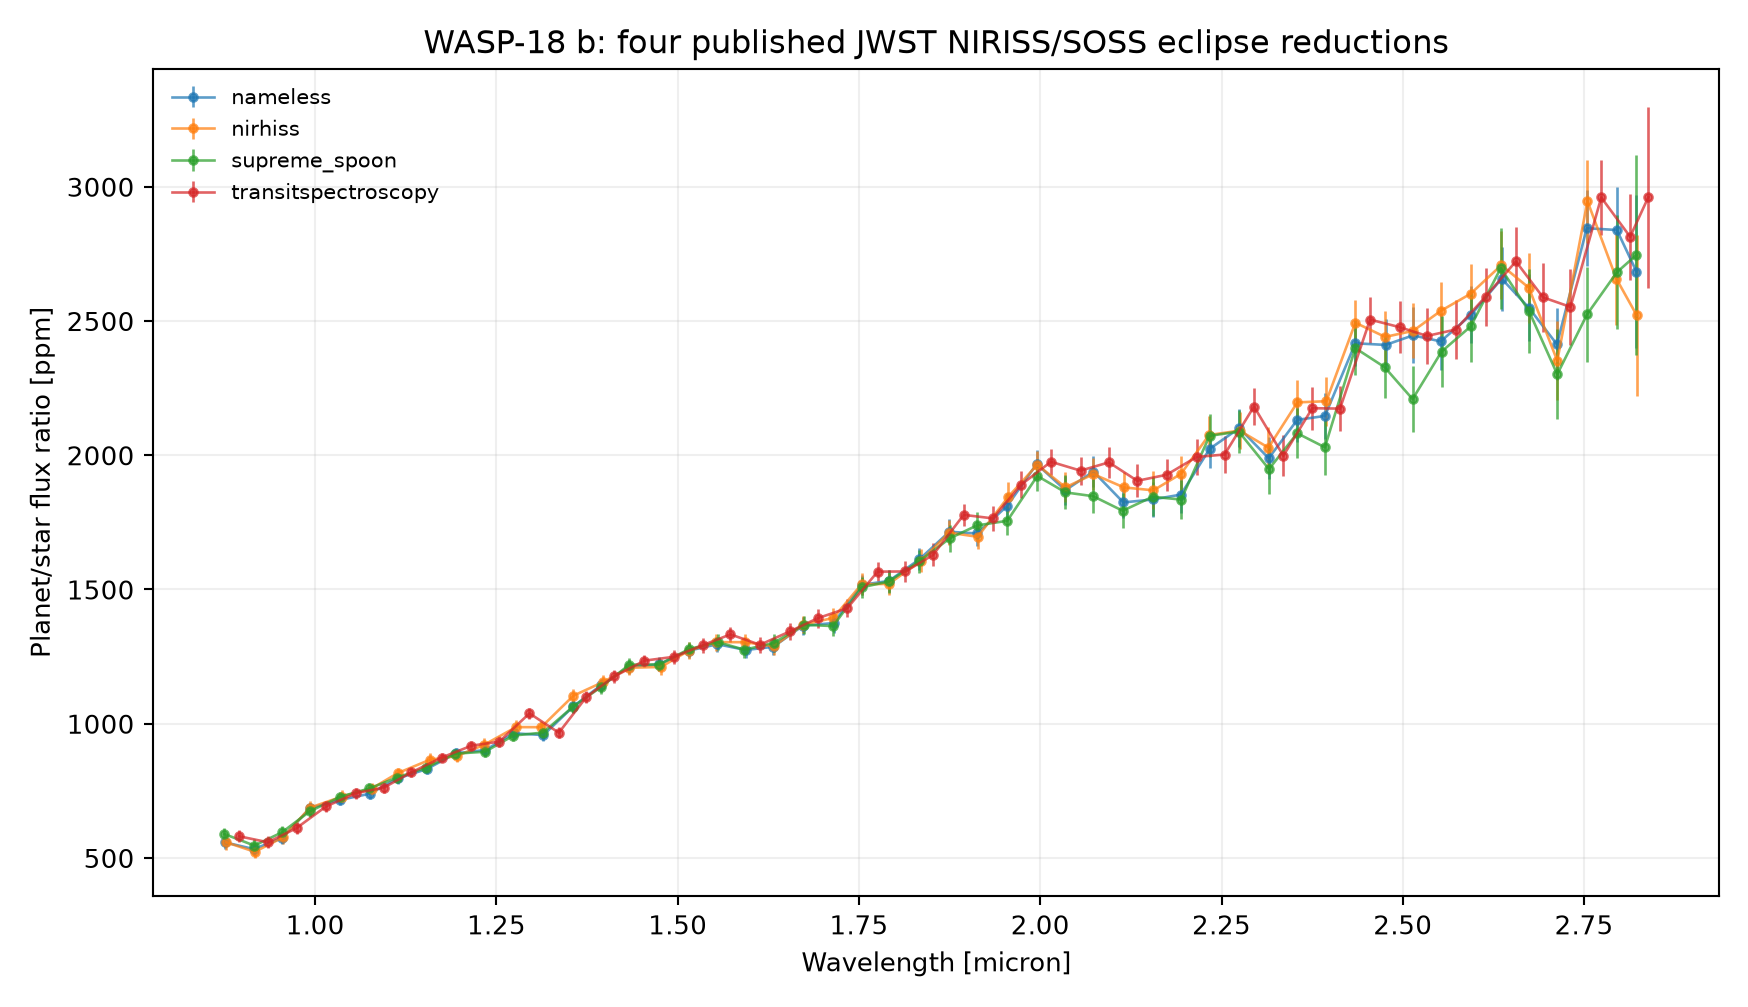
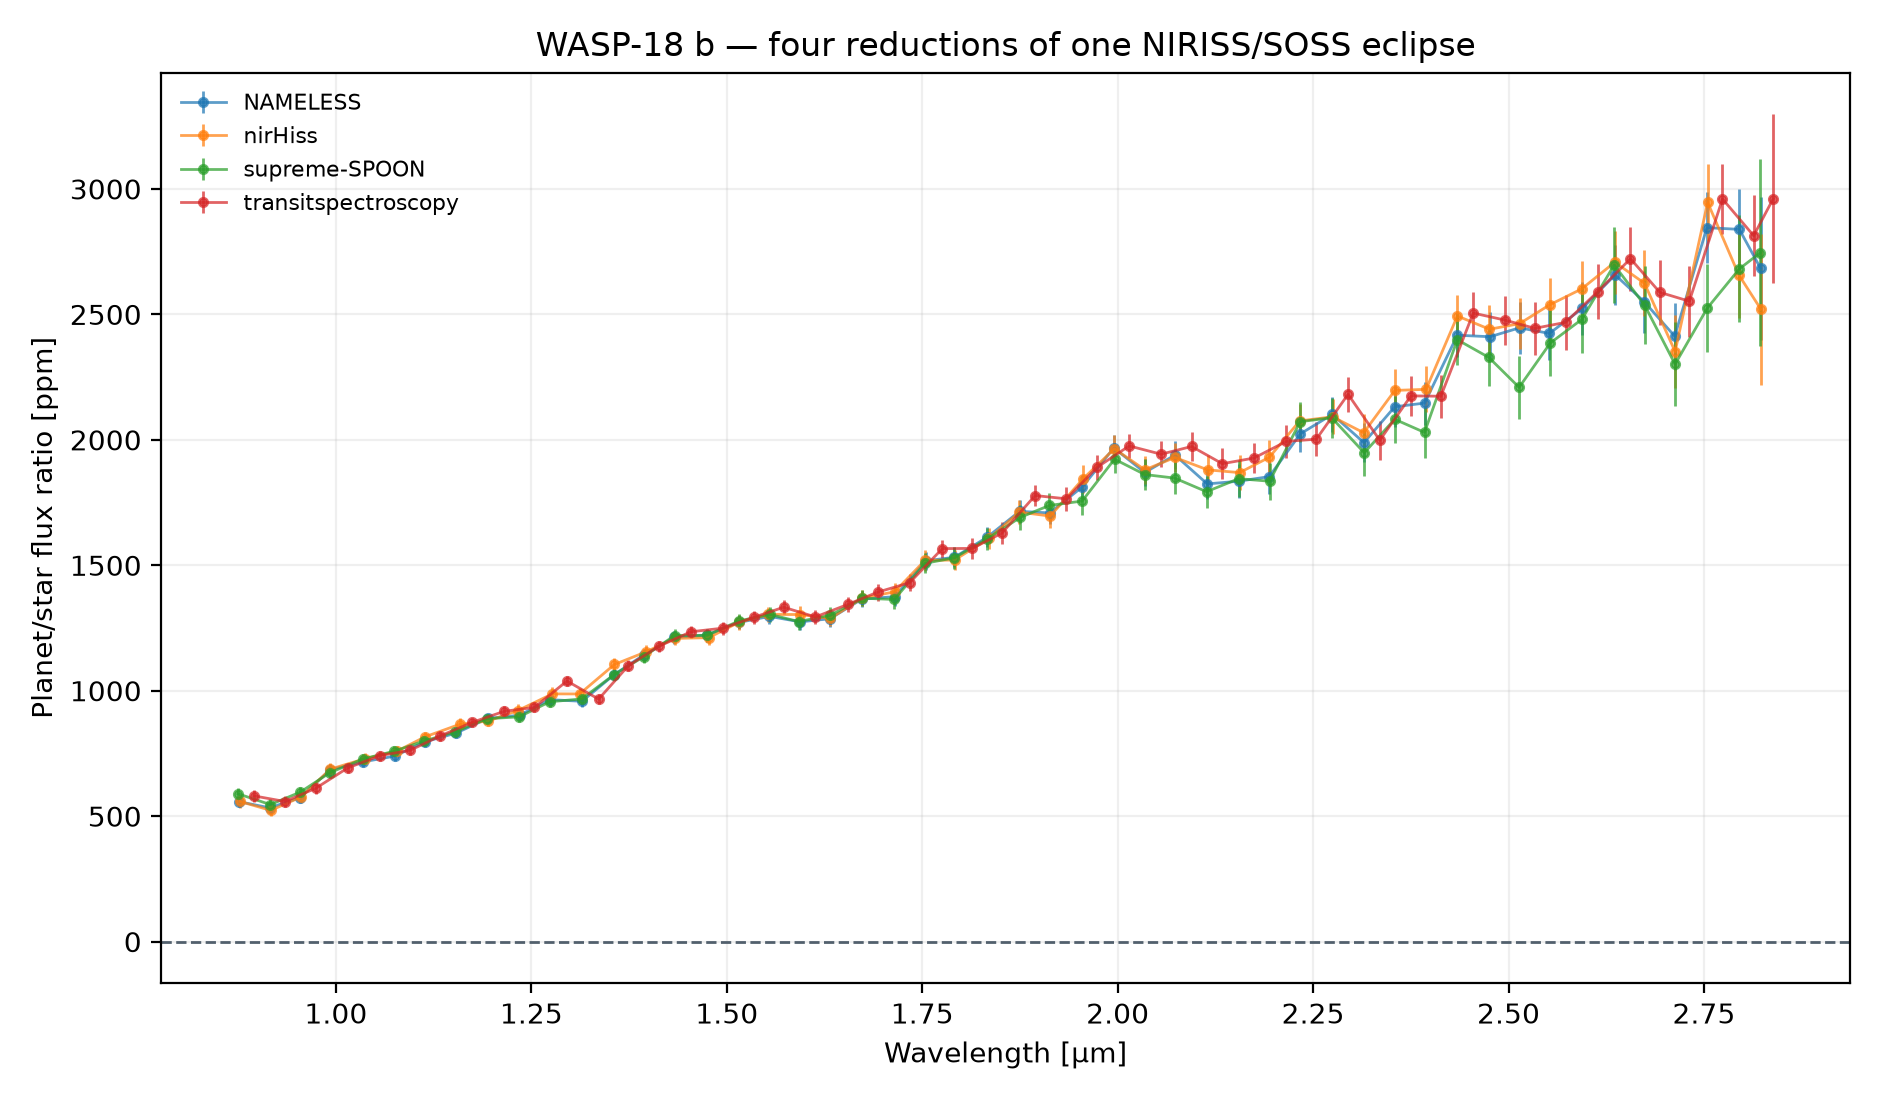
feat: quantify correlated NIRISS reductions

diff --git a/scripts/analyze_spectrum.py b/scripts/analyze_spectrum.py
@@ -1,7 +1,19 @@
+"""Diagnostics for four reductions of one JWST/NIRISS eclipse.
+
+The reductions share the same photons and are correlated. Flat-spectrum tests
+quantify structure within each delivered spectrum; they are not molecular
+detections. Pairwise normalized differences use a conservative independence
+reference and must not be read as formal consistency p-values.
+"""
+
 from __future__ import annotations
+
 import csv
+from itertools import combinations, pairwise
 from pathlib import Path
+
 import matplotlib
+
 matplotlib.use("Agg")
 import matplotlib.pyplot as plt
 import numpy as np
@@ -11,61 +23,138 @@ ROOT = Path(__file__).resolve().parents[1]
 DATA = ROOT / "data" / "spectra"
 FIGURES = ROOT / "figures"
 STATS_FILE = FIGURES / "spectrum_statistics.csv"
+AGREEMENT_FILE = FIGURES / "pipeline_agreement.csv"
+FIGURE_FILE = FIGURES / "wasp18b_published_spectrum.png"
+AGREEMENT_FIGURE = FIGURES / "wasp18b_pipeline_differences.png"
+
 
 def flat_test(values, errors):
     values, errors = np.asarray(values, float), np.asarray(errors, float)
     good = np.isfinite(values) & np.isfinite(errors) & (errors > 0)
     values, errors = values[good], errors[good]
     weights = 1 / errors**2
-    mean = np.sum(weights * values) / np.sum(weights)
-    statistic = np.sum(((values - mean) / errors)**2)
+    mean = float(np.sum(weights * values) / np.sum(weights))
+    statistic = float(np.sum(((values - mean) / errors) ** 2))
     dof = len(values) - 1
-    return {"n": len(values), "mean": mean, "chi2": statistic, "dof": dof,
-            "p": chi2.sf(statistic, dof)}
+    return {
+        "n": len(values), "mean_ppm": mean, "chi2": statistic, "dof": dof,
+        "reduced_chi2": statistic / dof, "p": float(chi2.sf(statistic, dof)),
+        "negative_bins": int(np.sum(values < 0)),
+        "negative_fraction": float(np.mean(values < 0)),
+        "median_error_ppm": float(np.median(errors)),
+    }
 
-def offset_model_test(wavelength, values, errors, model_wavelength, model_values):
-    model = np.interp(wavelength, model_wavelength, model_values)
-    weights = 1 / errors**2
-    offset = np.sum(weights * (values - model)) / np.sum(weights)
-    statistic = np.sum(((values - model - offset) / errors)**2)
-    dof = len(values) - 1
-    return {"n": len(values), "offset": offset, "chi2": statistic,
-            "dof": dof, "p": chi2.sf(statistic, dof), "model": model + offset}
 
-def write_rows(rows):
+def load_reductions():
+    reductions = []
+    labels = {"nameless": "NAMELESS", "nirhiss": "nirHiss",
+              "supreme_spoon": "supreme-SPOON",
+              "transitspectroscopy": "transitspectroscopy"}
+    for path in sorted(DATA.glob("*_w18b_spectrum.txt")):
+        values = np.loadtxt(path)
+        key = path.stem.replace("_w18b_spectrum", "")
+        reductions.append((labels[key], values[:, 0], values[:, 1], values[:, 2]))
+    return reductions
+
+
+def compare_pair(first, second):
+    label_a, wave_a, depth_a, error_a = first
+    label_b, wave_b, depth_b, error_b = second
+    low, high = max(wave_a.min(), wave_b.min()), min(wave_a.max(), wave_b.max())
+    keep = (wave_a >= low) & (wave_a <= high)
+    wavelength = wave_a[keep]
+    comparison_depth = np.interp(wavelength, wave_b, depth_b)
+    comparison_error = np.interp(wavelength, wave_b, error_b)
+    difference = depth_a[keep] - comparison_depth
+    reference_sigma = np.sqrt(error_a[keep] ** 2 + comparison_error**2)
+    normalized = difference / reference_sigma
+    return {
+        "pair": f"{label_a} - {label_b}", "n_overlap": len(difference),
+        "wavelength_min_micron": float(low), "wavelength_max_micron": float(high),
+        "median_difference_ppm": float(np.median(difference)),
+        "median_absolute_difference_ppm": float(np.median(np.abs(difference))),
+        "rms_difference_ppm": float(np.sqrt(np.mean(difference**2))),
+        "median_abs_independence_z": float(np.median(np.abs(normalized))),
+        "fraction_abs_independence_z_gt_2": float(np.mean(np.abs(normalized) > 2)),
+        "wavelength": wavelength, "difference": difference,
+        "reference_sigma": reference_sigma,
+    }
+
+
+def write_rows(path, rows):
     fields = sorted({key for row in rows for key in row})
-    with STATS_FILE.open("w", newline="", encoding="utf-8") as handle:
+    with path.open("w", newline="", encoding="utf-8") as handle:
         writer = csv.DictWriter(handle, fieldnames=fields)
-        writer.writeheader(); writer.writerows(rows)
+        writer.writeheader()
+        writer.writerows(rows)
 
-FIGURE_FILE = FIGURES / "wasp18b_published_spectrum.png"
 
-def binned(wavelength, values, errors, width=.04):
+def binned(wavelength, values, errors, width=0.04):
     edges = np.arange(wavelength.min(), wavelength.max() + width, width)
     x, y, e = [], [], []
-    for left, right in zip(edges[:-1], edges[1:]):
+    for left, right in pairwise(edges):
         use = (wavelength >= left) & (wavelength < right)
-        if not use.any(): continue
-        weights = 1 / errors[use]**2
+        if not use.any():
+            continue
+        weights = 1 / errors[use] ** 2
         x.append(np.sum(weights * wavelength[use]) / np.sum(weights))
         y.append(np.sum(weights * values[use]) / np.sum(weights))
         e.append(np.sqrt(1 / np.sum(weights)))
     return np.asarray(x), np.asarray(y), np.asarray(e)
 
+
 def main():
-    FIGURES.mkdir(exist_ok=True); rows = []
-    fig, ax = plt.subplots(figsize=(9.2, 5.3))
-    for path in sorted(DATA.glob("*_w18b_spectrum.txt")):
-        values = np.loadtxt(path); label = path.stem.replace("_w18b_spectrum", "")
-        result = flat_test(values[:, 1], values[:, 2]); rows.append({"comparison": label + " vs weighted flat", **result})
-        x, y, e = binned(values[:, 0], values[:, 1], values[:, 2])
+    FIGURES.mkdir(exist_ok=True)
+    reductions, rows = load_reductions(), []
+    fig, ax = plt.subplots(figsize=(9.4, 5.5))
+    for label, wavelength, depth, error in reductions:
+        result = flat_test(depth, error)
+        below_one = wavelength < 1
+        rows.append({"comparison": label + " vs weighted flat",
+                     "wavelength_min_micron": float(wavelength.min()),
+                     "wavelength_max_micron": float(wavelength.max()),
+                     "negative_bins_below_1_micron": int(np.sum(depth[below_one] < 0)),
+                     "bins_below_1_micron": int(np.sum(below_one)), **result})
+        x, y, e = binned(wavelength, depth, error)
         ax.errorbar(x, y, yerr=e, fmt="o-", ms=3, lw=1, alpha=.72, label=label)
-    write_rows(rows)
-    ax.set(xlabel="Wavelength [micron]", ylabel="Planet/star flux ratio [ppm]",
-           title="WASP-18 b: four published JWST NIRISS/SOSS eclipse reductions")
-    ax.grid(alpha=.2); ax.legend(frameon=False, fontsize=8); fig.tight_layout()
-    fig.savefig(FIGURE_FILE, dpi=190); plt.close(fig)
-    return {"rows": rows, "n": min(row["n"] for row in rows)}
+    write_rows(STATS_FILE, rows)
+    ax.axhline(0, color="#52606d", lw=1, ls="--")
+    ax.set(xlabel="Wavelength [µm]", ylabel="Planet/star flux ratio [ppm]",
+           title="WASP-18 b — four reductions of one NIRISS/SOSS eclipse")
+    ax.grid(alpha=.2)
+    ax.legend(frameon=False, fontsize=8)
+    fig.tight_layout()
+    fig.savefig(FIGURE_FILE, dpi=200)
+    plt.close(fig)
+
+    pairs = [compare_pair(a, b) for a, b in combinations(reductions, 2)]
+    write_rows(AGREEMENT_FILE, [{key: value for key, value in pair.items()
+                                 if key not in {"wavelength", "difference", "reference_sigma"}}
+                                for pair in pairs])
+    fig, axes = plt.subplots(len(pairs), 1, figsize=(9.5, 12.2), sharex=True)
+    for ax, pair in zip(axes, pairs):
+        ax.axhline(0, color="#52606d", lw=1)
+        ax.fill_between(pair["wavelength"], -pair["reference_sigma"],
+                        pair["reference_sigma"], color="#bd3e0c", alpha=.1,
+                        label="± quadrature-error reference")
+        ax.plot(pair["wavelength"], pair["difference"], "o", ms=2.1, color="#17212b")
+        ax.set_ylabel("Δ depth\n[ppm]")
+        ax.set_title(pair["pair"], loc="left", fontsize=9)
+        ax.grid(alpha=.18)
+    axes[0].legend(frameon=False, fontsize=7, loc="upper right")
+    axes[-1].set_xlabel("Reference-grid wavelength [µm]")
+    fig.suptitle("Cross-pipeline differences — descriptive because all reductions share one observation",
+                 fontsize=11)
+    fig.tight_layout()
+    fig.savefig(AGREEMENT_FIGURE, dpi=200)
+    plt.close(fig)
+    return {"rows": rows, "pairs": pairs, "n": min(row["n"] for row in rows)}
+
 
 if __name__ == "__main__":
-    result = main(); print(f"WASP-18 b: four reductions; at least {result['n']} bins each")
+    result = main()
+    print(f"WASP-18 b: four correlated reductions; {result['n']} bins each")
+    for pair in result["pairs"]:
+        print(f"{pair['pair']}: median |difference|="
+              f"{pair['median_absolute_difference_ppm']:.1f} ppm; "
+              f"median |independence z|={pair['median_abs_independence_z']:.2f}")

diff --git a/tests/test_spectrum.py b/tests/test_spectrum.py
@@ -1,12 +1,20 @@
-"""Reproduction checks for the archived published spectrum."""
+"""Reproduction checks for the archived published spectra."""
+
 from pathlib import Path
-import numpy as np
+
 import analyze_spectrum as spectrum
+import numpy as np
+
 
 def test_spectrum_analysis_is_finite_and_reproducible():
     result = spectrum.main()
-    assert result["n"] > 5
-    assert result["rows"]
-    assert all(np.isfinite(row["chi2"]) and row["dof"] > 0 for row in result["rows"])
-    for path in (spectrum.STATS_FILE, spectrum.FIGURE_FILE):
+    assert result["n"] == 408
+    assert len(result["rows"]) == 4
+    assert len(result["pairs"]) == 6
+    assert all(np.isfinite(row["chi2"]) and row["dof"] == 407 for row in result["rows"])
+    assert all(row["reduced_chi2"] > 4 for row in result["rows"])
+    assert sorted(row["negative_bins"] for row in result["rows"]) == [0, 0, 0, 2]
+    assert all(pair["median_abs_independence_z"] < 1 for pair in result["pairs"])
+    for path in (spectrum.STATS_FILE, spectrum.AGREEMENT_FILE,
+                 spectrum.FIGURE_FILE, spectrum.AGREEMENT_FIGURE):
         assert Path(path).is_file() and Path(path).stat().st_size > 100

diff --git a/tests/test_data_integrity.py b/tests/test_data_integrity.py
@@ -1,0 +1,25 @@
+"""Integrity checks for immutable scientific inputs."""
+
+import hashlib
+from pathlib import Path
+
+ROOT = Path(__file__).resolve().parents[1]
+EXPECTED = {
[5 lines of base64/hex data omitted]
+}
+
+
+def digest(path):
+    data = path.read_bytes()
+    if path.suffix == ".txt":
+        data = data.replace(b"\r\n", b"\n").replace(b"\r", b"\n")
+    return hashlib.sha256(data).hexdigest()
+
+
+def test_scientific_inputs_match_documented_checksums():
+    for relative, expected in EXPECTED.items():
+        assert digest(ROOT / relative) == expected
